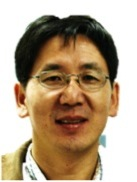
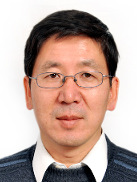
update photo and pub

diff --git a/publication.html b/publication.html
@@ -11,7 +11,11 @@ title: 单卫星实验室
 <ol>
 
 <li>
-Wang Y, Cordewener JHG, America AHP, Shan WX, Bouwmeester K, and Govers F. 2015. <i>Arabidopsis</i> lectin receptor kinases LecRK-IX.1 and LecRK-IX.2 are functional analogs in regulating <i>Phytophthora</i> resistance and plant cell death. Molecular Plant-Microbe Interactions (accepted).
+Meng YL, Huang YH, Wang QH, Wen QJ, Jia JB, Zhang Q, Huang GY, Quan JL, and Shan WX. (2015). Phenotypic and genetic characterization of resistance in <i>Arabidopsis thaliana</i> to the oomycete pathogen <i>Phytophthora parasitica</i>. Frontiers in Plant Science (accepted).
+</li>
+
+<li>
+Wang Y, Cordewener JHG, America AHP, Shan WX, Bouwmeester K, and Govers F. (2015). <i>Arabidopsis</i> lectin receptor kinases LecRK-IX.1 and LecRK-IX.2 are functional analogs in regulating <i>Phytophthora</i> resistance and plant cell death. Molecular Plant-Microbe Interactions (accepted).
 </li>
 	
 <li>
@@ -23,7 +27,7 @@ Tian YE, Yin JL, Sun JP, Ma HM, Ma YF, Quan JL and Shan WX. (2015). Population s
 </li>
 
 <li>
-Tian YE, Sun JP, Li HP, Wang G, Ma YF, Liu DD, Quan JL, and Shan WX. ( 2015). Dominance of a single clonal lineage in the <i>Phytophthora infestans</i> population from northern Shaanxi, China revealed by genetic and phenotypic diversity analysis. <i>Plant Pathology</i> 64:200-206. [<a href="/pdf/yetian2015.pdf">PDF</a>]
+Tian YE, Sun JP, Li HP, Wang G, Ma YF, Liu DD, Quan JL, and Shan WX. (2015). Dominance of a single clonal lineage in the <i>Phytophthora infestans</i> population from northern Shaanxi, China revealed by genetic and phenotypic diversity analysis. <i>Plant Pathology</i> 64:200-206. [<a href="/pdf/yetian2015.pdf">PDF</a>]
 </li>
 
 <li>
